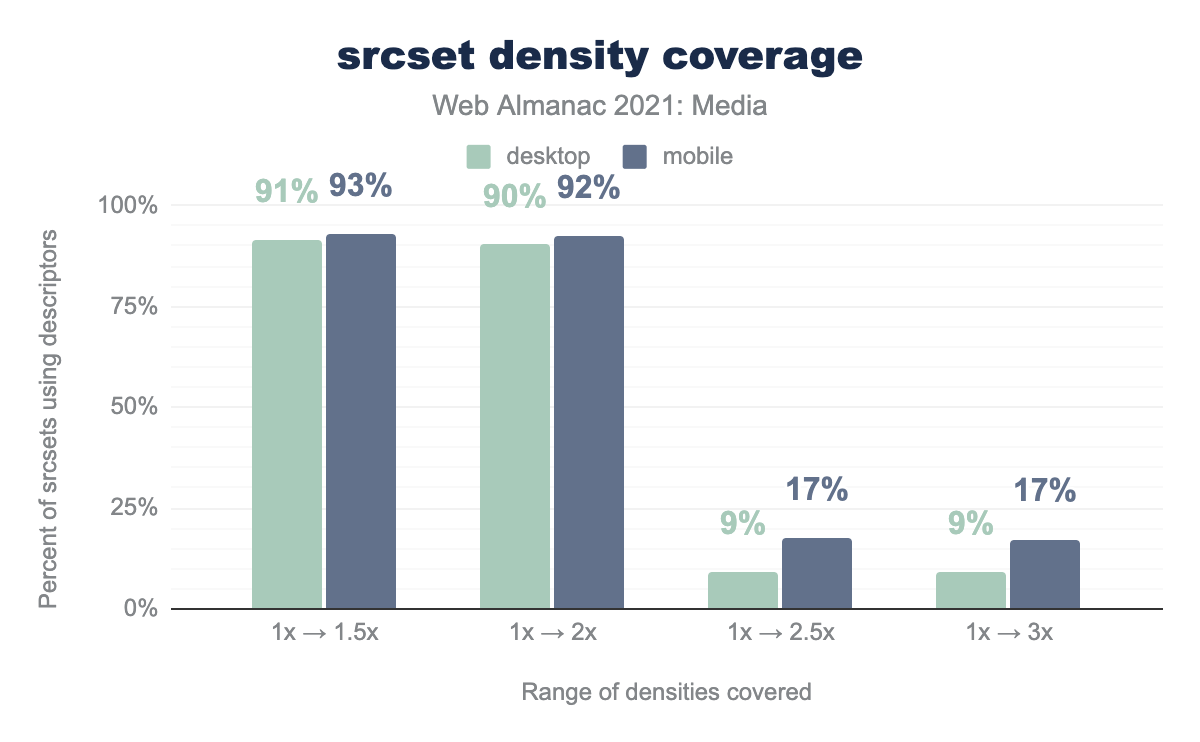
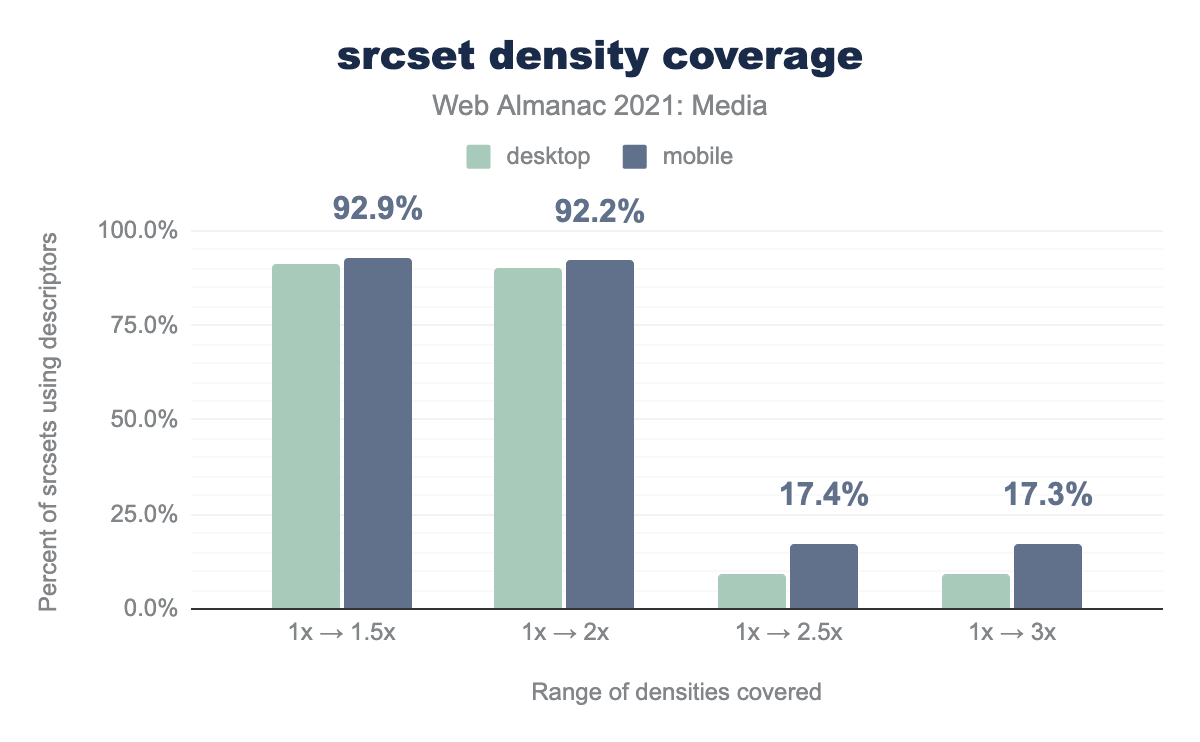
Cleanup srcset data

diff --git a/src/content/en/2021/media.md b/src/content/en/2021/media.md
@@ -434,6 +434,7 @@ When browsers pick a resource to load out of a `srcset`, they first assign every
 On a 500-CSS-`px`-wide viewport, these resources will be assigned the following densities:
 
 | Resource | Density |
+|---|---|
 | `large.jpg` | `1000w` ÷ `500px` = 2x |
 | `medium.jpg` | `750w` ÷ `500px` = 1.5x |
 | `small.jpg` | `500w` ÷ `500px` = 1x |
@@ -441,11 +442,12 @@ On a 500-CSS-`px`-wide viewport, these resources will be assigned the following 
 However on a 1000-CSS-`px`-wide viewport, these same resources, marked up with the same `srcset` and `sizes` values, will have different densities:
 
 | Resource | Density |
+|---|---|
 | `large.jpg` | `1000w` ÷ `1000px` = 1x |
 | `medium.jpg` | `750w` ÷ `1000px` = 0.75x |
 | `small.jpg` | `500w` ÷ `1000px` = 0.5x |
 
-After these densities are calculated, browsers pick the resource with the density that's the best match for the current browsing context. It's safe to say that in this example, the `srcset` did not contain a wide-enough range of resources. Viewports measuring more than 1000 `px` across, with higher than `1x` densities, are not uncommon; if you’re reading this on a laptop, you’re probably browsing in such a context, right now. And in these contexts, the best browsers can do is pick `large.jpg`, whose 1x density will appear blurry on the high-density display.
+After these densities are calculated, browsers pick the resource with the density that's the best match for the current browsing context. It's safe to say that in this example, the `srcset` did not contain a wide-enough range of resources. Viewports measuring more than `1000 px` across, with higher than `1x` densities, are not uncommon; if you're reading this on a laptop, you're probably browsing in such a context, right now. And in these contexts, the best browsers can do is pick `large.jpg`, whose 1x density will still appear blurry on the high-density display.
 
 So! Armed with both:
 
@@ -457,7 +459,7 @@ So! Armed with both:
 {{ figure_markup(
   image="srcset-density-coverage.png",
   caption="Ranges of densities covered by `srcset`s that use either `x` or `w` descriptors.",
-  description="A bar chart showing the percent of `srcset`s using descriptors that cover a few different ranges of densities, on both desktop and mobile. On desktop, 91% of `srcset`s covered a 1x to 1.5x range. 90% covered a 1x to 2x range. 9% covered a 1x to 2.5x range. And 9% covered a 1x to 3x range. On mobile, 93% covered a 1x to 1.5x range. 92% covered a 1x to 2x range. 17% covered a 1x to 2.5x range. And 17% covered a 1x to 3x range.",
+  description="A bar chart showing the percent of `srcset`s using descriptors that cover a few different ranges of densities, on both desktop and mobile. On desktop, 91.2% of `srcset`s covered a 1x to 1.5x range. 90.2% covered a 1x to 2x range. 9.2% covered a 1x to 2.5x range. And 9.1% covered a 1x to 3x range. On mobile, 92.9% covered a 1x to 1.5x range. 92.2% covered a 1x to 2x range. 17.4% covered a 1x to 2.5x range. And 17.3% covered a 1x to 3x range.",
   chart_url="https://docs.google.com/spreadsheets/d/e/2PACX-1vQM9deg869BD9knNdVhFNbFnUdVXeyuwzUEIgSW-2XgOBEbALtVnoFapQ5JsDxzzepj6mVoepKBmN_m/pubchart?oid=1895556643&format=interactive",
   sheets_gid="1895556643",
   sql_file="srcset_density_coverage.sql"
